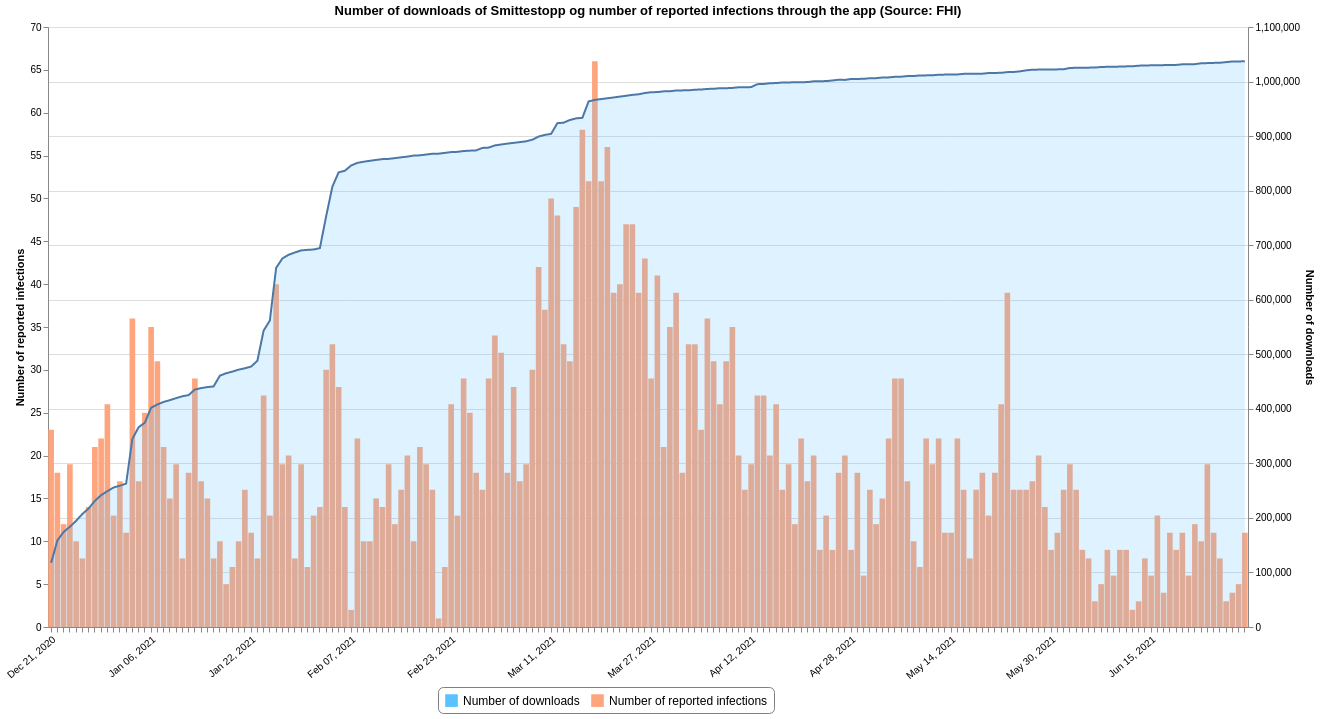
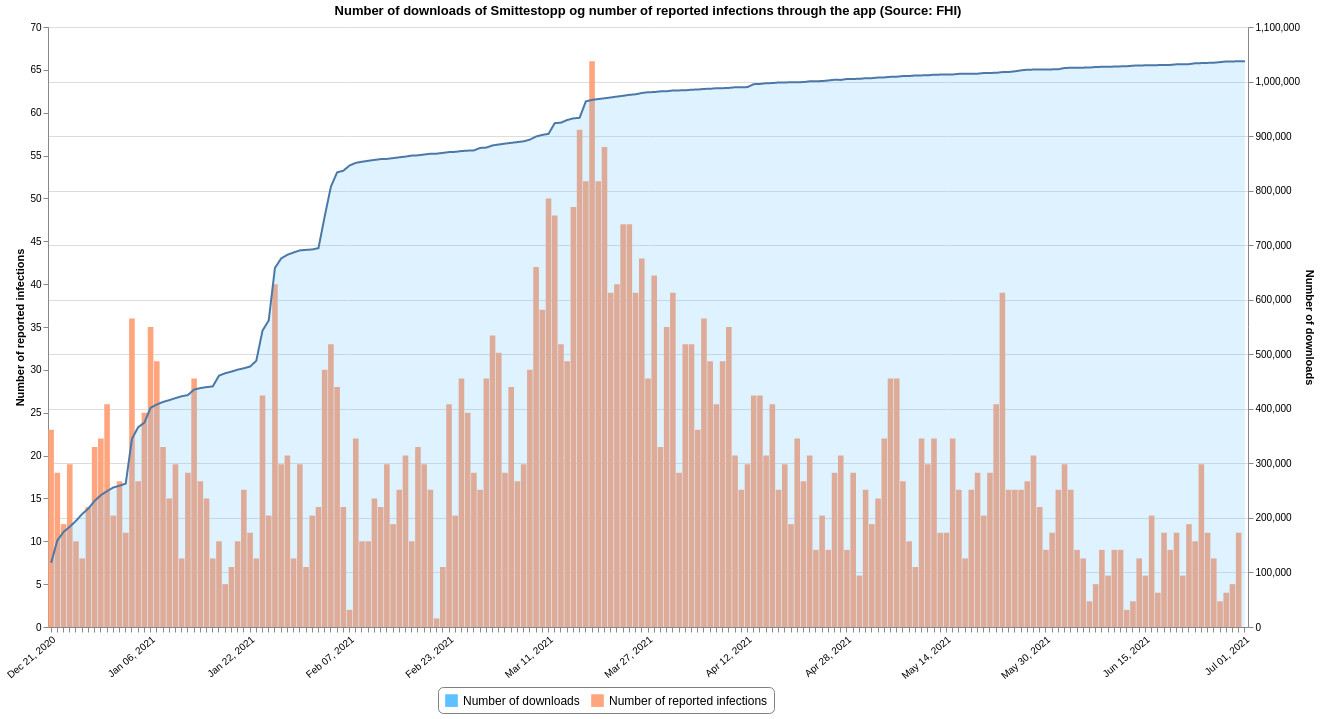
Updated 2021-07-02 11:31

diff --git a/README.md b/README.md
@@ -17,7 +17,7 @@ This repository contains datasets of daily time-series data related to COVID-19 
 |[Tested Lab](#tested_labcsv)|FHI|2021-07-01 13:25:50+02:00|[<center>csv</center>](https://raw.githubusercontent.com/frefrik/covid19norge-data/main/data/tested_lab.csv)|[<center>preview</center>](data/tested_lab.csv)|
 |[Transport](#transportcsv)|FHI|2021-07-01 11:20:56+02:00|[<center>csv</center>](https://raw.githubusercontent.com/frefrik/covid19norge-data/main/data/transport.csv)|[<center>preview</center>](data/transport.csv)|
 |[Vaccine Doses](#vaccine_dosescsv)|FHI|2021-07-01 13:25:55+02:00|[<center>csv</center>](https://raw.githubusercontent.com/frefrik/covid19norge-data/main/data/vaccine_doses.csv)|[<center>preview</center>](data/vaccine_doses.csv)|
-|[Smittestopp](#smittestoppcsv)|FHI|2021-07-01 14:50:48+02:00|[<center>csv</center>](https://raw.githubusercontent.com/frefrik/covid19norge-data/main/data/smittestopp.csv)|[<center>preview</center>](data/smittestopp.csv)|
+|[Smittestopp](#smittestoppcsv)|FHI|2021-07-02 11:30:53+02:00|[<center>csv</center>](https://raw.githubusercontent.com/frefrik/covid19norge-data/main/data/smittestopp.csv)|[<center>preview</center>](data/smittestopp.csv)|
 <!-- table ends -->
 
 ## Datafiles
